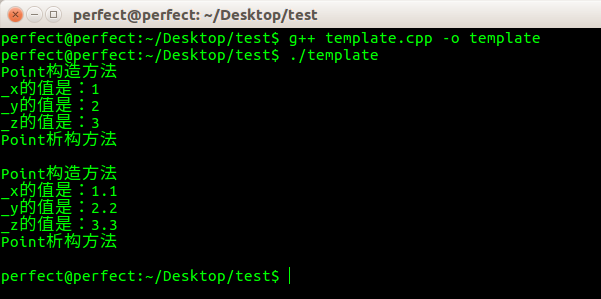
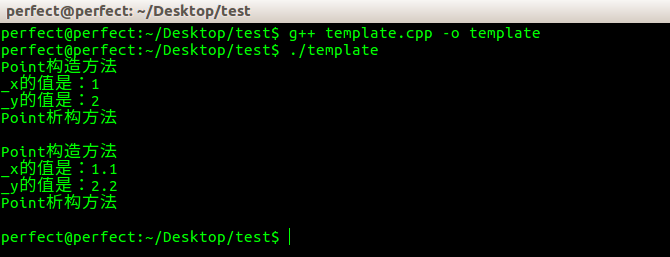
异常处理

Changed region(s): [[0.0, 0.0, 1.0, 0.4981], [0.0, 0.5292, 0.2097, 0.8405], [0.0, 0.9027, 0.4792, 0.965]]

diff --git a/_posts/2016-11-13-cpp-object-memory-02-20161113.md b/_posts/2016-11-13-cpp-object-memory-02-20161113.md
@@ -16,10 +16,9 @@ using namespace std;
 template<class Type>
 class Point{
 	public:
-		Point(Type x = 0, Type y = 0, Type z = 0){
+		Point(Type x = 0, Type y = 0){
 			_x = x;
 			_y = y;
-			_z = z;
 			cout << "Point构造方法" << endl;
 		}
 		~Point(){
@@ -31,28 +30,23 @@ class Point{
 		Type y(){
 			cout << "_y的值是：" << _y << endl;
 		}
-		Type z(){
-			cout << "_z的值是：" << _z << endl;
-		}
 	private:
-		Type _x, _y, _z;
+		Type _x, _y;
 };
 
 int main()
 {
 	Point<int> *pi;
-	pi = new Point<int>(1, 2, 3);
+	pi = new Point<int>(1, 2);
 	pi->x();
 	pi->y();
-	pi->z();
 	delete pi;
 	cout << endl;
 
 	Point<float> *pf;
-	pf = new Point<float>(1.1, 2.2, 3.3);
+	pf = new Point<float>(1.1, 2.2);
 	pf->x();
 	pf->y();
-	pf->z();
 	delete pf;
 	cout << endl;
 
@@ -63,3 +57,34 @@ int main()
 程序的运行效果如下：
 
 ![image](../media/image/2016-11-13/05.png)
+
+##异常处理
+
+同样的，先复习一下C++异常处理机制的简单语法：
+
+```
+#include<iostream>
+using namespace std;
+
+int main()
+{
+	try{
+		throw 3.0;
+	}
+	catch(int){
+		cout << "int exception!" << endl;
+	}
+	catch(double d){
+		cout << "d = "<< d << "; double exception!" << endl;
+	}
+	catch(...){
+		cout << "unknown exception!" << endl;
+	}
+
+	return 0;
+}
+```
+
+程序的运行效果如下：
+
+![image](../media/image/2016-11-13/06.png)
